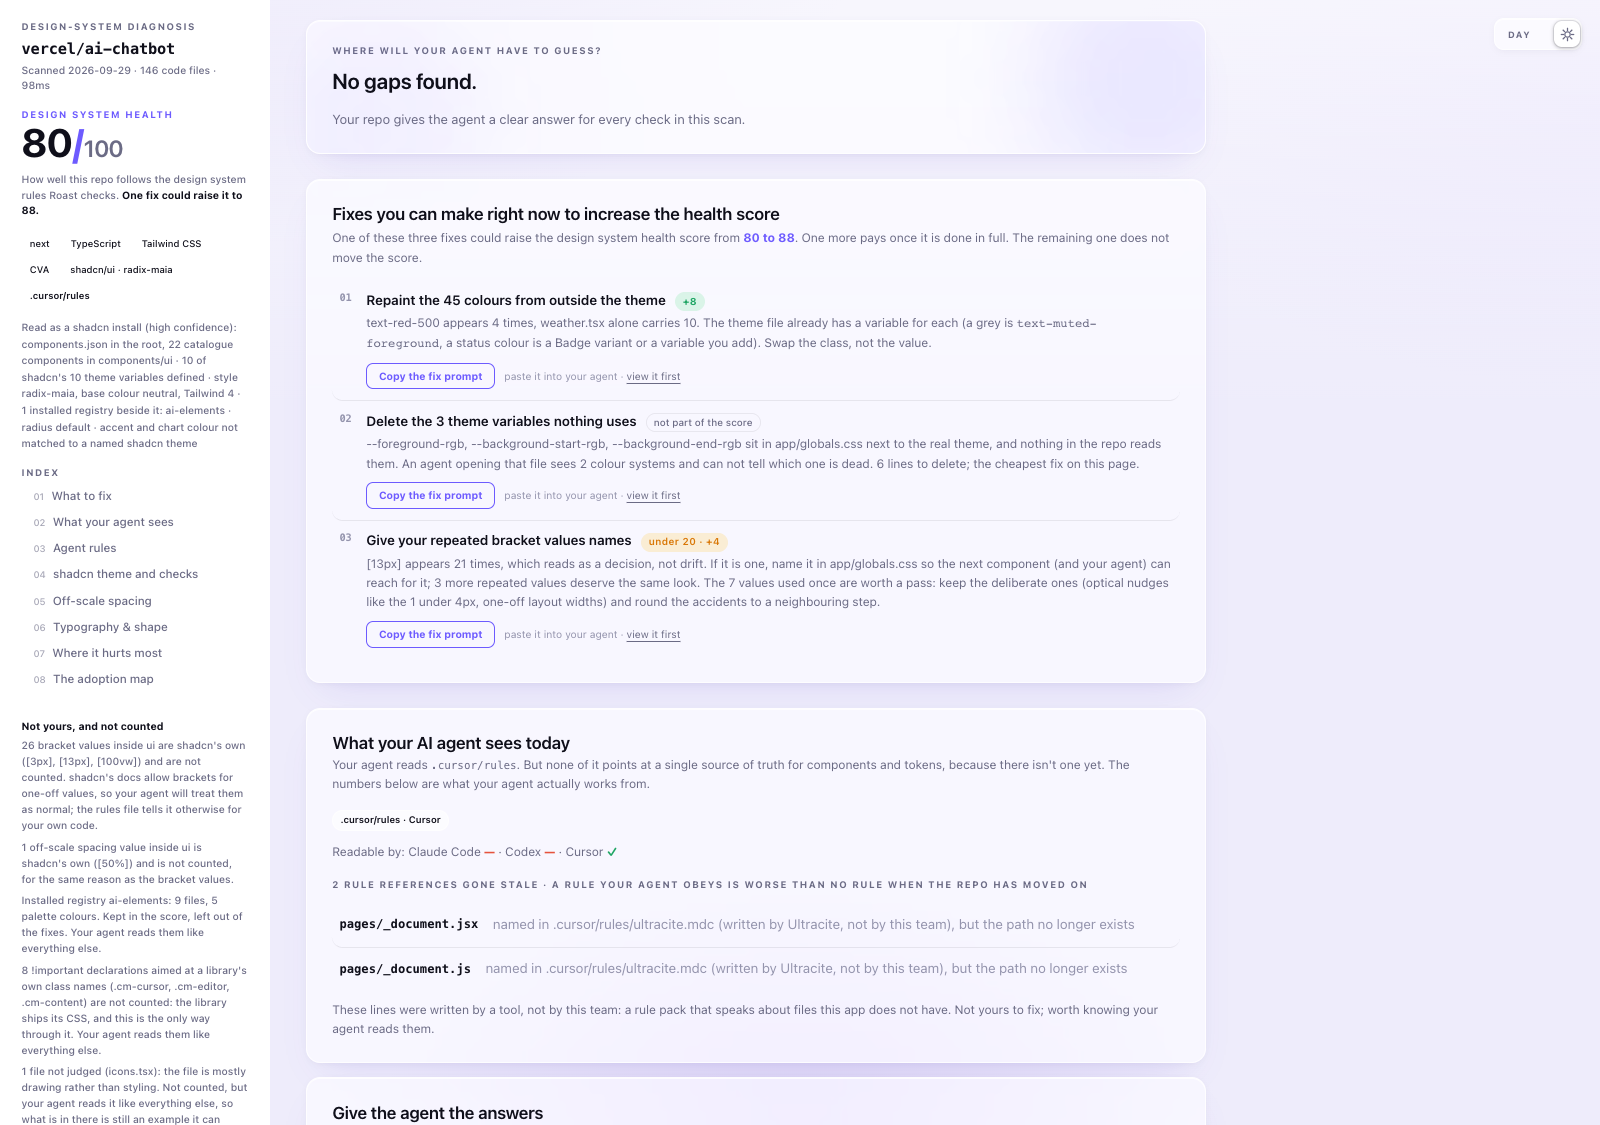
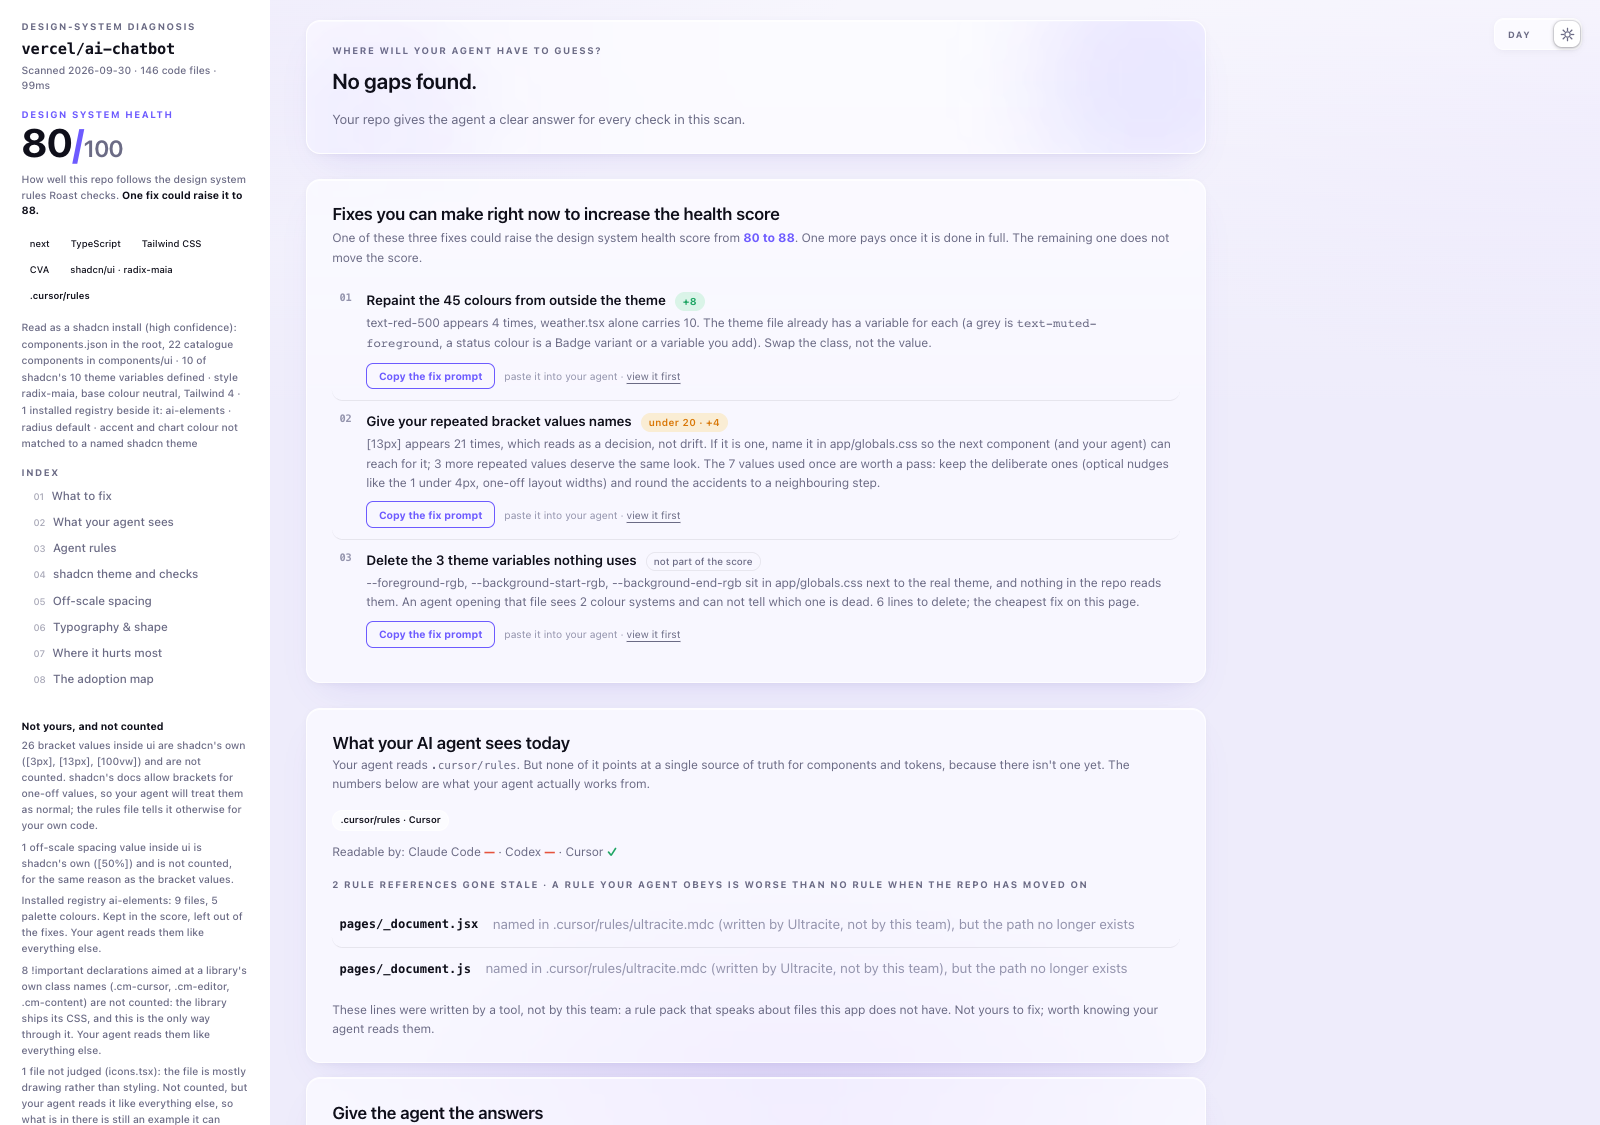
9.2.4: README screenshots reshot; the landing page counts 330 checks
The fixes list on the ai-chatbot example changed order, so both README
screenshots are reshot from the regenerated page (dark, whole page at 1400
wide; light, the top at 1600 x 1125). The landing page's test count moves
from 314 to 330.

Changed region(s): [[0.2188, 0.3422, 0.7188, 0.56]]

diff --git a/docs/index.html b/docs/index.html
@@ -132,7 +132,7 @@
 <div class="kicker" style="margin-top:30px">Install the Claude Code plugin</div>
 <div class="install"><b>/plugin marketplace add</b> gregkozakiewicz/roast-my-design-system<br><b>/plugin install</b> roast-my-design-system@roast-my-design-system</div>
 <p class="sub">What it installs: two skills, one local MCP server and one edit hook, nothing else. <b>roast</b> (<code>/roast-my-design-system</code>) scans the whole repo, writes the report with Claude's read of the numbers inside it, then walks the fixes with you. <b>review</b> (<code>/roast-my-design-system:review</code>) checks only what changed, in about a second. Older Claude Code without the marketplace: clone the repo and copy skills/roast-my-design-system into ~/.claude/skills/ (or ~/.codex/skills/ for OpenAI Codex).</p>
-<p class="lead-close">Read only, no network, no telemetry, one shareable HTML report. Every release is provenance signed on npm and passes a 314-check test suite before it ships.</p>
+<p class="lead-close">Read only, no network, no telemetry, one shareable HTML report. Every release is provenance signed on npm and passes a 330-check test suite before it ships.</p>
 
 <h2>What it works on</h2>
 <div class="kicker">Supported</div>

diff --git a/README.md b/README.md
@@ -142,11 +142,11 @@ Eleven reports, hosted exactly as the tool writes them. Every number determinist
 
 The full report for vercel/ai-chatbot. The verdict answers what the agent will learn here, the gap section comes first, then "What the repo teaches the agent", Claude's read of the scan:
 
-![The full diagnosis report for vercel/ai-chatbot in dark mode: a fixed side panel with the health score and what it measures, the stack, how the repo was read as a shadcn install, an index of every section and what is not the team's and not counted; then where the agent will have to guess, the fixes you can make right now, each with what it is worth and its copy-the-fix-prompt button, the wrapped present with the agent rules, an agent trap callout, 3-yardstick tiles including the 2 shadcn tiles, the adoption map treemap, palette forensics, the shadcn theme variable by variable, spacing receipts, typography specimens, offenders, duplicates, and the component usage ledger](assets/report-full-dark.png?v=9.2.2)
+![The full diagnosis report for vercel/ai-chatbot in dark mode: a fixed side panel with the health score and what it measures, the stack, how the repo was read as a shadcn install, an index of every section and what is not the team's and not counted; then where the agent will have to guess, the fixes you can make right now, each with what it is worth and its copy-the-fix-prompt button, the wrapped present with the agent rules, an agent trap callout, 3-yardstick tiles including the 2 shadcn tiles, the adoption map treemap, palette forensics, the shadcn theme variable by variable, spacing receipts, typography specimens, offenders, duplicates, and the component usage ledger](assets/report-full-dark.png?v=9.2.4)
 
 The same report in light mode (one file, built-in toggle):
 
-![The diagnosis report in light mode](assets/report-light-hero.png?v=9.2.2)
+![The diagnosis report in light mode](assets/report-light-hero.png?v=9.2.4)
 
 ## Why the numbers hold
 
